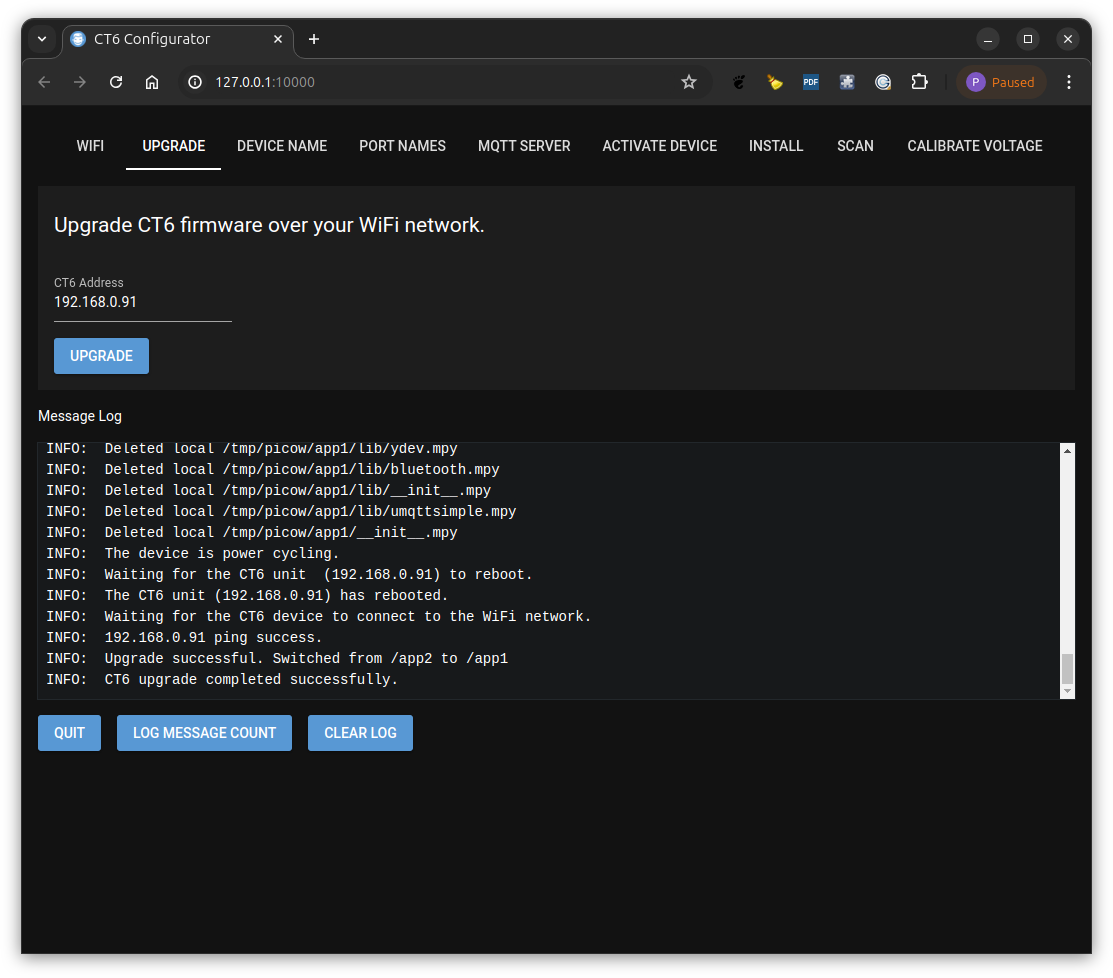
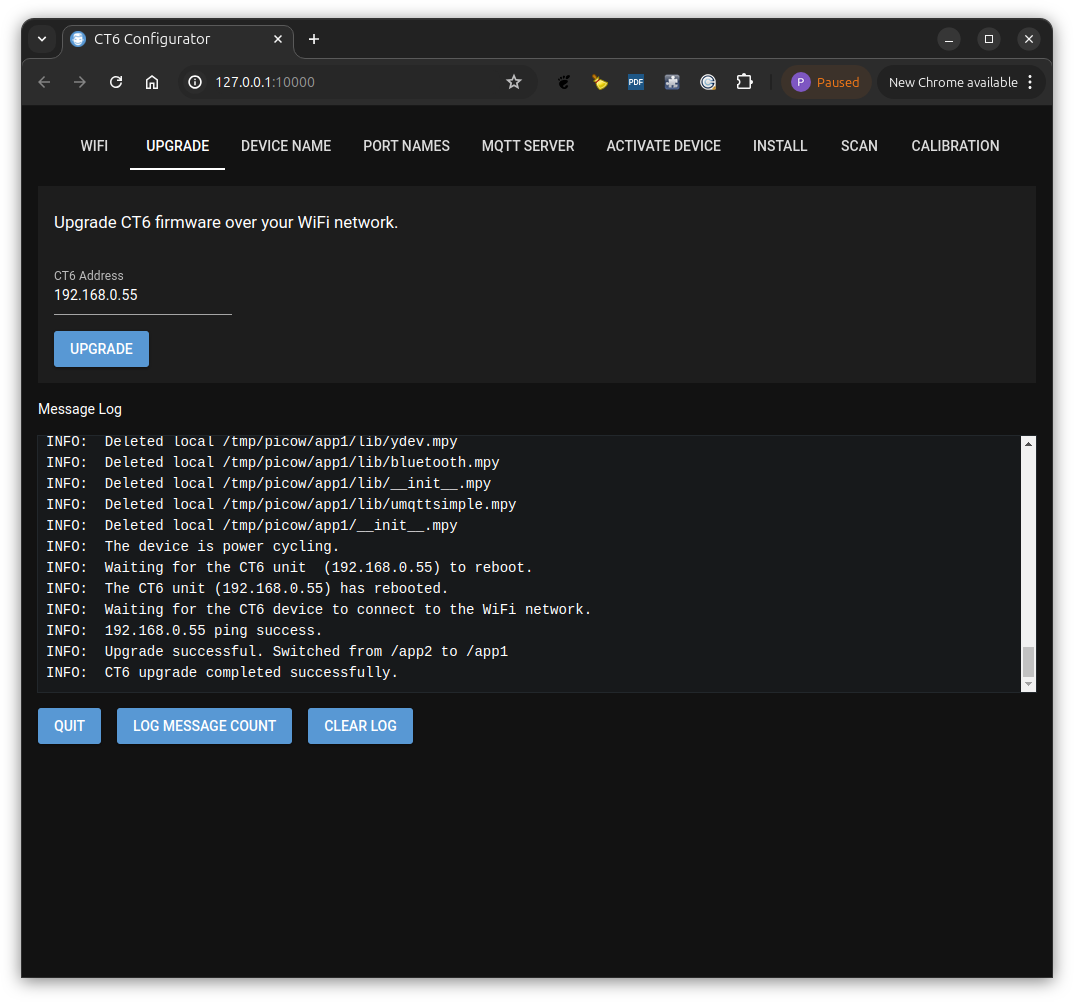
Update documentation to detail - How to calibrate the current on a single CT port. - How to connect the CT clamp.

diff --git a/software/server/setting_up_ct6_units.md b/software/server/setting_up_ct6_units.md
@@ -131,7 +131,11 @@ back on again to reconnect to the WiFi network as shown below.
 
   ![alt text](images/ct6_configurator_9_b.png "CT6 Configurator Scan")
 
-## Calibrate the CT6 voltage measurements
+## Calibrate the CT6 measurements
+The CT6 device measures the AC mains voltage and the current on port connected to a current transformer (CT).
+
+### Voltage Calibration
+
 The CT6 device is powered from an AC supply. The CT6 device measures the mains AC voltage by measuring its AC supply voltage. 
 This supply voltage is dropped down to 9-16 volts from the AC mains voltage by the power adapter used. 
 When the CT6 device is manufactured it's voltage measurements are calibrated. This is done using the recommended 
@@ -143,7 +147,17 @@ To do this you have to manually measure the AC voltage using a digital multimete
 
 To perform the voltage calibration enter the measures AC voltage into the field on the CALIBRATE VOLTAGE tab. The '60 Hz AC supply switch should be left off unless your AC mains supply frequency is 60 Hz. In this case the AC mains frequency is assumed to be 50 Hz. Then select the 'PERFORM VOLTAGE CALIBRATION' button as shown below.
 
-  ![alt text](images/ct6_configurator_10.png "CT6 Voltage Calibration")
+  ![alt text](images/ct6_configurator_10_a.png "CT6 Voltage Calibration")
+
+
+### Current Calibration
+
+When the CT6 device is manufactured it is calibrated using a 'YHDC SCT013 100A 0-1V' current transformer. If you wish to use a different transformer then you will need to calibrate the CT port with the new CT connected. A current of at least 1 amps must be passing through the cable that the CT is connected to in order to calibrate it. It is recommended that this current is around 10 amps. The 'CALIBRATE CURRENT' tab can used to calibrate the current measurement on the device port. You will need an external method to measure the current so that you can enter the value into the 'AC Current (Amps)' field. The equipment to perform this calibration is detailed in [README_MFG]README_MFG.md).
+
+With a load on the connected CT enter the 'AC Current (Amps)' measured value. The '60 Hz AC supply switch should be left off unless your AC mains supply frequency is 60 Hz. Then select the 'CALIBRATE CURRENT' button as shown below.
+
+  ![alt text](images/ct6_configurator_10_b.png "CT6 Current Calibration")
+
 
 
 

diff --git a/hardware/README.md b/hardware/README.md
@@ -21,11 +21,11 @@ below.
 
 # Current transformer
 
-This project is designed to use only the YHDC SCT013 100A 0-1V split core current transformer as shown below.
+This project is tested with the YHDC SCT013 100A 0-1V split core current transformer when manufactured. If you wish to use a different current transformer then you must calibrate the unit as detailed at the end of [this](../software/server/setting_up_ct6_units.md) document.
 
 ![alt text](images/ct.jpg "Current Transformer")
 
-These can be plugged into ports 1 - 6 to provide up to six separate bi directional measurements of AC power. When clipping the current transformer around the live AC wire the face shown above should be on the AC supply (grid) side. It should be possible to use other current transformers as the calibration mechanism should allow calibration. I have also checked the myenergi current transformers (https://www.myenergi.com/product/ct-clamp/) and these complete the calibration process correctly.
+These can be plugged into ports 1 - 6 to provide up to six separate bi directional measurements of AC power. When clipping the current transformer around the live AC wire it is recommended that the face shown above should be on the AC supply (grid) side. This results in -ve power values for imported energy and +ve power values for generated energy. If you wish to have +ve values for imported energy then reverse the current transformer. It should be possible to use other current transformers but they will need calibration as detailed above.
 
 ## Case
 The Case was designed using [FreeCad](https://www.freecad.org/). The various
